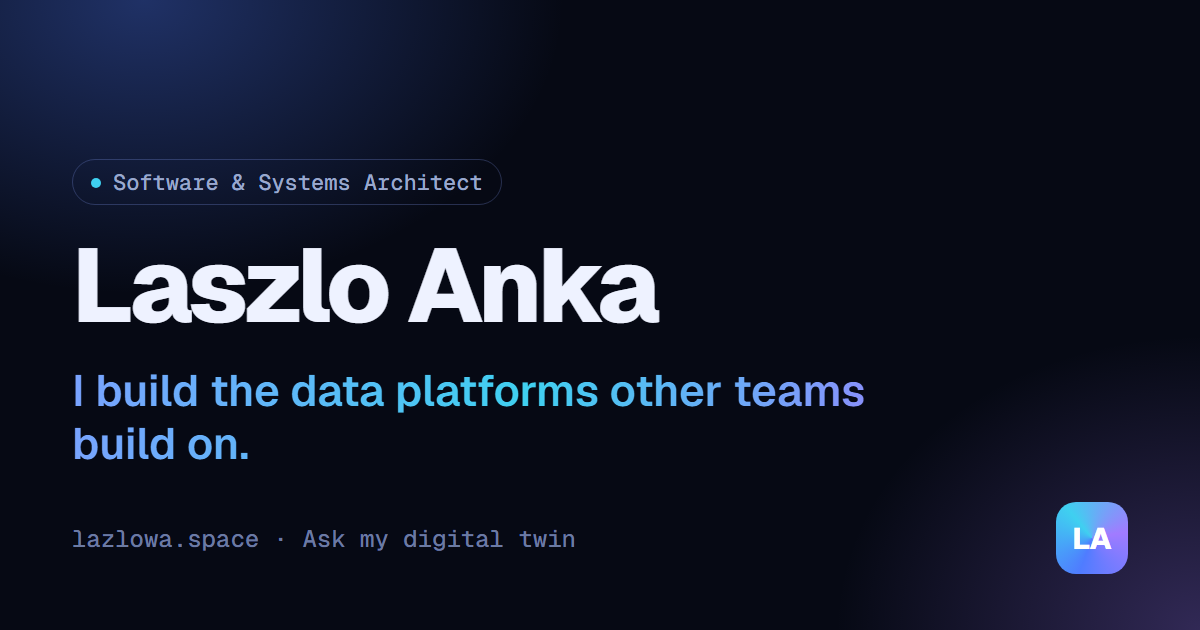
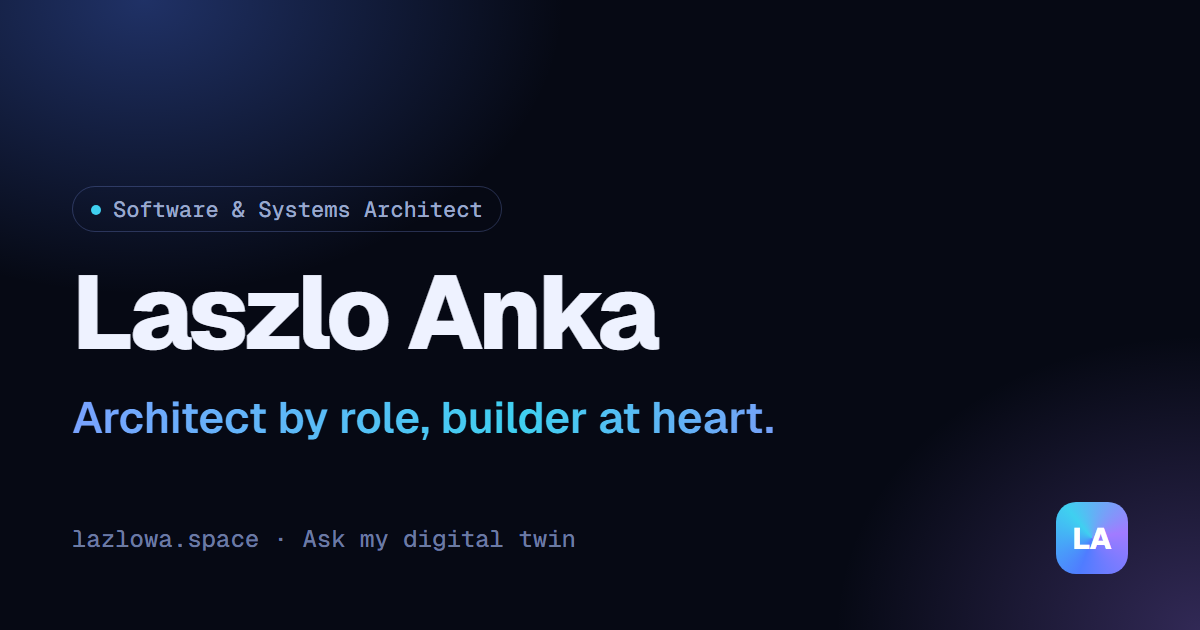
TID-14: Availability pill, new tagline and profile text, updated preview card

Changed region(s): [[0.0617, 0.3921, 0.74, 0.754], [0.0617, 0.2714, 0.4008, 0.3619]]

diff --git a/templates/index.html b/templates/index.html
@@ -23,7 +23,10 @@
   {% include "_badge.html" %}
   <main class="bento">
     <header class="tile tile-hero" style="--i: 0">
-      <p class="eyebrow">{{ resume.role }}</p>
+      <div class="pills">
+        <p class="eyebrow">{{ resume.role }}</p>
+        {% if resume.availability %}<p class="eyebrow eyebrow-available">{{ resume.availability }}</p>{% endif %}
+      </div>
       <h1>Hi, I'm {{ resume.name.split()[0] }}.</h1>
       <p class="tagline">{{ resume.tagline }}</p>
       <div class="profile">{{ resume.profile_html | safe }}</div>

diff --git a/static/style.css b/static/style.css
@@ -206,6 +206,22 @@ p:last-child {
   box-shadow: 0 0 10px var(--cyan);
 }
 
+.pills {
+  display: flex;
+  flex-wrap: wrap;
+  gap: 0.5rem;
+}
+
+.eyebrow-available {
+  color: var(--text);
+  border-color: rgba(52, 211, 153, 0.45);
+}
+
+.eyebrow-available::before {
+  background: #34d399;
+  box-shadow: 0 0 10px #34d399;
+}
+
 .tile-hero h1 {
   margin: 0;
   font-size: clamp(2.75rem, 7vw, 5.25rem);

diff --git a/tests/test_resume.py b/tests/test_resume.py
@@ -6,7 +6,7 @@ from fastapi.testclient import TestClient
 
 from app.config import settings
 from app.main import app
-from app.resume import load_page, parse_resume
+from app.resume import load_page, load_resume, parse_resume
 
 client = TestClient(app)
 
@@ -16,6 +16,7 @@ SAMPLE = """## Identity
 - Role: Engineer
 - Tagline: I build things.
 - Description: Jane, an engineer.
+- Availability: Open to work
 - Email: jane@example.com
 - GitHub: github.com/jane
 - Location: Berlin
@@ -33,10 +34,12 @@ Jane builds **systems**.
 def test_index_renders_profile_md() -> None:
     response = client.get("/")
 
+    resume = load_resume()
     assert response.status_code == 200
-    assert "Laszlo Anka" in response.text
-    assert "I build the data platforms other teams build on." in response.text
-    assert "Twenty years ago" in response.text
+    assert resume.name in response.text
+    assert f'<p class="tagline">{resume.tagline}</p>' in response.text
+    assert resume.profile_html in response.text
+    assert f"{resume.availability}</p>" in response.text
     assert "<h2>Experience</h2>" in response.text
 
 
@@ -97,6 +100,7 @@ def test_parse_resume_identity() -> None:
     assert resume.role == "Engineer"
     assert resume.tagline == "I build things."
     assert resume.description == "Jane, an engineer."
+    assert resume.availability == "Open to work"
     assert [(link.label, link.href) for link in resume.links] == [
         ("Email", "mailto:jane@example.com"),
         ("GitHub", "https://github.com/jane"),

diff --git a/app/chat.py b/app/chat.py
@@ -68,8 +68,9 @@ Tool use:
 - You cannot record or pass on contact details. When the visitor wants to get in
   touch or offers their own contact details, kindly share the email address from
   the document below and mention that the contact panel on this page lists the
-  email address and LinkedIn profile. Do not speak for the person you represent
-  about their interest, availability or reaction; they will answer themselves.
+  email address and LinkedIn profile. Apart from the availability stated in the
+  document, do not speak for the person you represent about their interest in a
+  role or their reaction; they will answer themselves.
 - Record each question only once per conversation. You cannot see tool calls
   from earlier turns, only your earlier replies, and those replies are accurate:
   if you earlier said you don't know something, it was already recorded. Do not

diff --git a/app/resume.py b/app/resume.py
@@ -51,6 +51,7 @@ class Resume:
     role: str
     tagline: str
     description: str
+    availability: str
     profile_html: str
     links: list[Link]
     sections: list[Section]
@@ -83,6 +84,7 @@ def parse_resume(text: str) -> Resume:
         role=identity.pop("Role", ""),
         tagline=identity.pop("Tagline", ""),
         description=identity.pop("Description", ""),
+        availability=identity.pop("Availability", ""),
         profile_html=profile_html,
         links=[Link(label, value, _href(value)) for label, value in identity.items()],
         sections=sections,

diff --git a/plan/STATE.md b/plan/STATE.md
@@ -13,6 +13,8 @@ TID-14 (Content Fine-Tuning), branch `tid-14`, committed and pushed for a previe
 - Provider: `OPENROUTER_PROVIDER` setting (default `anthropic`, empty allows any; `.env.example`); `app/chat.py` `_complete` sends `provider: {order: [..], allow_fallbacks: false}`. Live check: a career question returned a normal reply (HTTP 200) with the pinning.
 - `data/PRIVACY.md`: names Anthropic PBC, USA, as the only model provider; transfers: Vercel and Google on the DPF (Google LLC states DPF certification on its frameworks page), OpenRouter and Anthropic on SCCs (Anthropic's privacy policy names SCCs; its DPF status is disputed between sources, so it is not claimed); supervisory authority per Art. 77.
 - Tests: description parsing, meta/OG tags, icons on all pages, static images served, provider pinning. 46 pass, ruff clean.
+- After the first preview push (commit 402e379; the follow-up below is committed and pushed for a second preview, including PLAN.md, on developer instruction): the developer rewrote the Profile text and changed the tagline to "Architect by role, builder at heart."; `static/og.png` re-rendered with the new tagline. Availability (developer: the employer knows, he is in his exit period): `Availability: Open to new roles from April 2027` in `data/PROFILE.md` Identity, shown as a second hero pill with a green dot (`.pills`, `.eyebrow-available`); `Resume.availability`. `data/ME.md` states the availability after "Current focus". `TOOL_GUIDANCE` now allows sharing the documented availability but still not his interest in a role or his reaction. Live: "When is Laszlo available...?" and "Would Laszlo be interested in a lead architect role in Munich?" both gave April 2027 and left interest to Laszlo. `test_index_renders_profile_md` now reads the expected texts from PROFILE.md. 46 tests pass.
+- Open for the developer: the new Profile says "an AI group of 45", while `data/ME.md` says "30+" in several places; not changed. Cosmetic: when the model writes text, calls the tool and continues, the two text parts are joined without a space ("for him.You're").
 
 ## TID-13 (completed, merged)
 

diff --git a/data/PROFILE.md b/data/PROFILE.md
@@ -2,8 +2,9 @@
 
 - Name: Laszlo Anka
 - Role: Software & Systems Architect
-- Tagline: I build the data platforms other teams build on.
+- Tagline: Architect by role, builder at heart.
 - Description: Laszlo Anka, software and systems architect: data platforms, distributed computing, cloud and AI-assisted development. Ask his digital twin about his career and projects.
+- Availability: Open to new roles from April 2027
 - Location: Germany
 - Email: laszlo.anka@gmail.com
 - LinkedIn: linkedin.com/in/laszlo-anka
@@ -13,11 +14,7 @@
 
 ## Profile
 
-Twenty years ago I was teaching cameras to judge distance. Today I design
-event-driven data platforms on Kubernetes and help teams ship faster with
-AI-assisted development. In between I built an AI group of 30+ people from
-scratch. I like owning the architecture and still getting my hands dirty in the
-code, and I prefer simple solutions that actually get built.
+I still remember how my IT teacher got me hooked on programming when I was twelve. I saw it as an art of creation then, and I still do. What satisfies me most is building something that others find useful and valuable. Today I design and build solutions for industrial-scale needs: moving, processing and maintaining huge volumes of data. Along the way I had the privilege of leading people: a computer vision team of 15 and an AI group of 45. I like owning the architecture and still writing the code, and I prefer simple solutions that actually get built. In everything I do, honest human values matter most to me.
 
 ## Highlights
 

diff --git a/plan/PLAN.md b/plan/PLAN.md
@@ -262,3 +262,30 @@ Albert-Einstein-Straße 47
 
 - Address is now in impressum and in privacy notice
 
+
+## TID-14 Content Fine-Tuning
+
+### Description
+
+Some more content optimization is necessary.
+
+Findings:
+- § 18 (1) MStV is still on the Legal notice. It’s harmless, but probably unnecessary unless you publish editorial content.
+- No Open Graph tags, so a link shared on LinkedIn still gets no proper preview. This is the most useful remaining fix before your announcement post.
+- No favicon declared (new finding). Browser tabs and bookmarks show a generic icon. A simple “LA” icon in your accent colors would fit.
+- Meta description is still just the tagline.
+- Privacy details: the model provider is still unnamed, and you could name the relevant data protection authority.
+
+Additionally:
+- Add CV download
+- open to work with date and details (relocation etc.)
+
+Tasks for the developer
+- Extend profile with concrete projects and topics/tasks
+- Add home projects, hobbies
+- Adapt profile texts
+
+
+### Acceptance Criteria
+
+- Findings fixed.

diff --git a/data/ME.md b/data/ME.md
@@ -35,6 +35,10 @@ an architecture end to end or going deep into implementation.
 Current focus: enabling AI-assisted software development across business units and
 solving technical problems for teams without dedicated developers.
 
+Availability: Laszlo is leaving Bosch and is currently in his exit period; his
+employer knows. He is open to new roles from April 2027. Questions about specific
+roles, conditions or his interest in an offer are for Laszlo to answer directly.
+
 ## Core Competencies
 
 - Systems and software architecture: decomposing complex problems into
